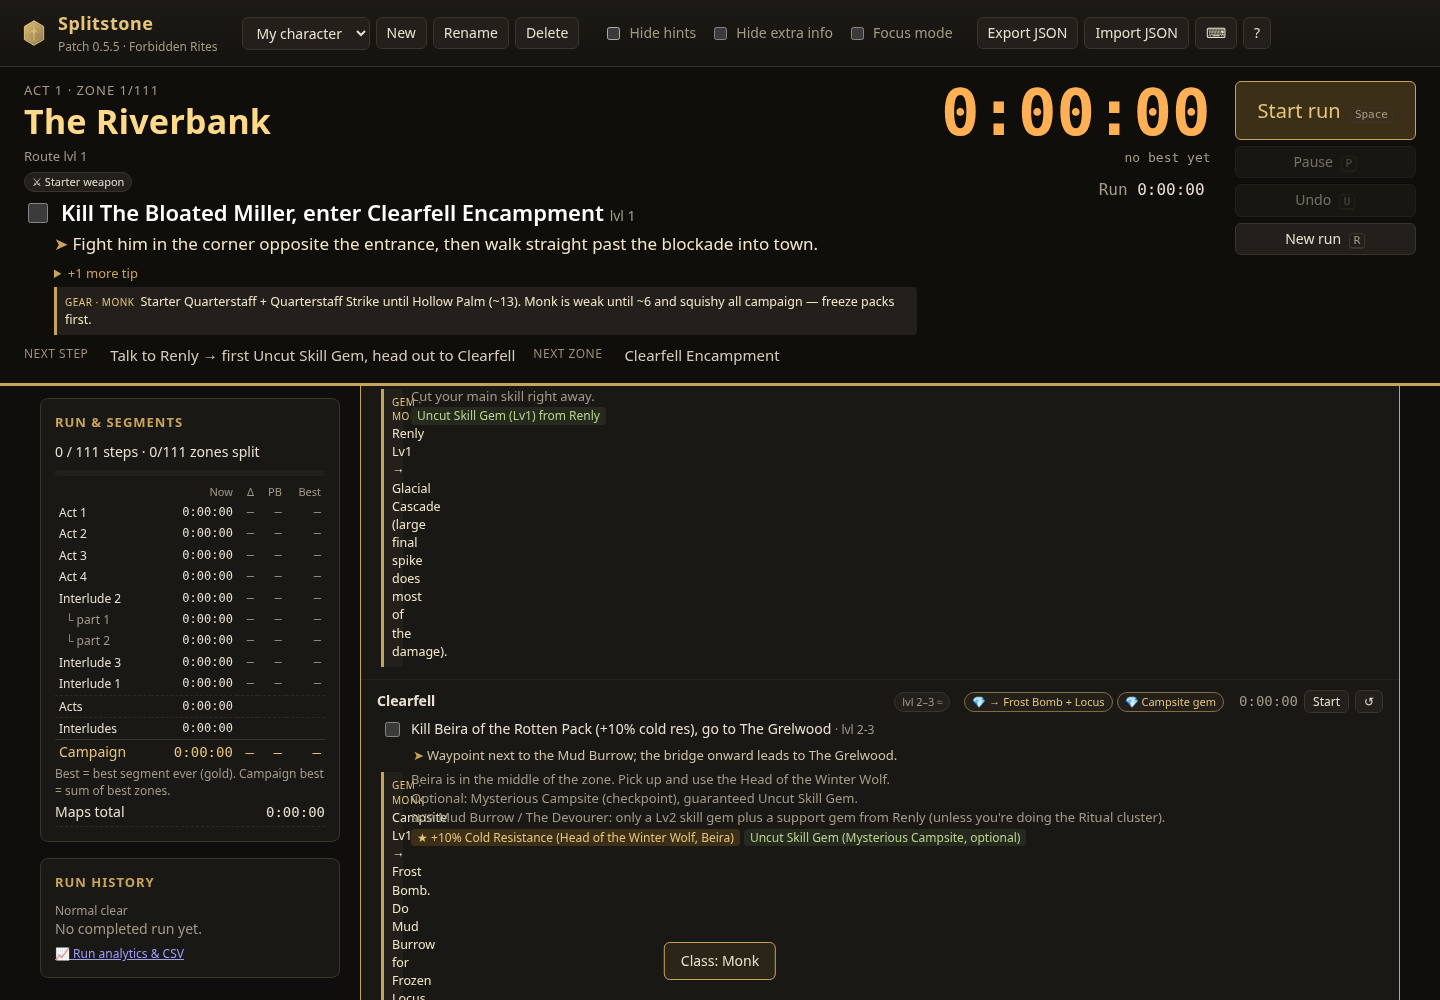
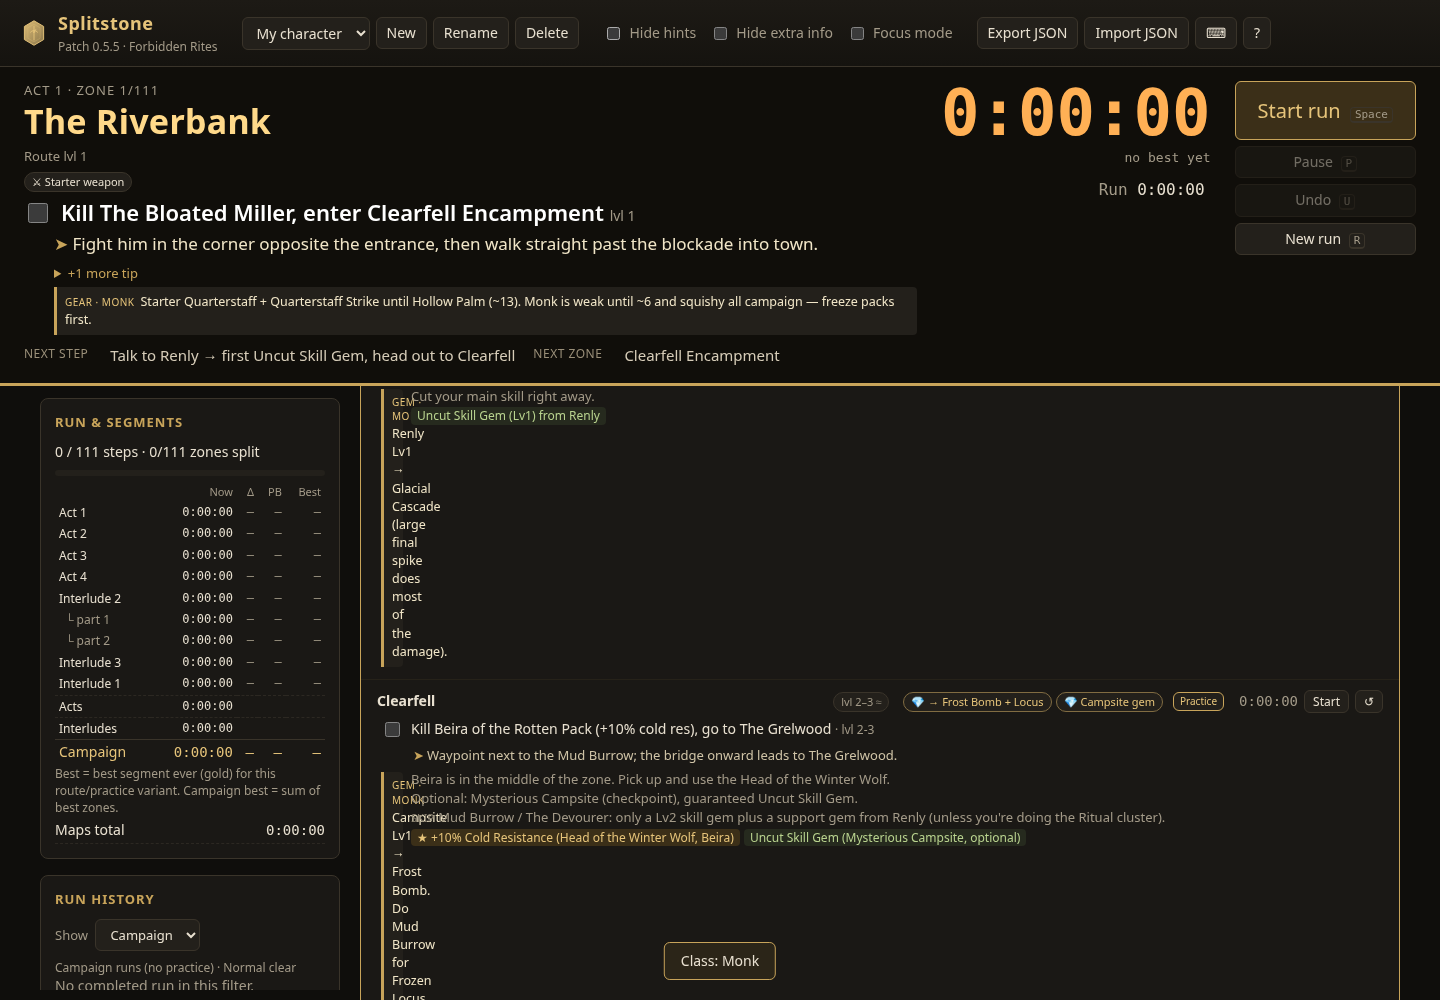
Expand Act 4 and Interlude gear / gem checkpoints
Shared cues for Tavakai weapon pieces, Halls tattoos, Hinekora Spirit,
Kaimana Lesson, Interlude Spirit/Boon/passive rewards, and late-campaign
vendor passes. Tests cover the new act4/interlude entries.

Changed region(s): [[0.0312, 0.868, 0.2188, 0.992], [0.0312, 0.775, 0.2188, 0.837], [0.625, 0.682, 0.8438, 0.713]]

diff --git a/data/gear_checkpoints.js b/data/gear_checkpoints.js
@@ -96,11 +96,111 @@ window.GEAR_CHECKPOINTS = {
     "act3-16": [
       S("craft", "Reforging Bench", "Mektul → Hammer of Kamasa to Oswald unlocks the Reforging Bench.", ["campaign"]),
     ],
+    "act4-01": [
+      S("vendor", "Kingsmarch gear", "Before sailing: sell junk, check Kingsmarch vendors for ~lvl 40–42 weapon/armour upgrades.", ["campaign", "malura"], { uncertain: true }),
+    ],
+    "act4-02": [
+      S("support", "Beast Pen support", "Optional Beast Pen: Uncut Support Gem Lv4. Blind Beast: Greater Blank Rune.", ["campaign"]),
+    ],
     "act4-03": [
-      S("weapon", "Weapon piece 1/3", "Island bosses drop Tavakai weapon pieces (or free Matiki) — track 3 pieces for Arastas.", ["campaign"]),
+      S("weapon", "Weapon piece 1/3", "Krutog (or free Matiki): Tavakai weapon piece 1/3 — track all three before Arastas.", ["campaign"]),
+      S("tip", "Nest ring", "Optional Nest: Ruby/Topaz Ring if your fire/lightning res is soft.", ["campaign"], { uncertain: true }),
+    ],
+    "act4-05": [
+      S("gem", "Tujen skill gem", "After Omniphobia: Tujen Uncut Skill Gem + Mist-shrouded Tome (+2 passives).", ["campaign"]),
+      S("vendor", "Mid-Act4 vendor", "Around here: refresh weapon if DPS stalled — island content is dense.", ["malura"], { uncertain: true }),
+    ],
+    "act4-06": [
+      S("craft", "Goddess flask", "Optional Goddess of Justice: +30% life or mana flask recovery (swappable).", ["campaign"]),
+    ],
+    "act4-07": [
+      S("weapon", "Weapon piece 2/3", "The Prisoner (or Matiki): weapon piece 2/3.", ["campaign"]),
+    ],
+    "act4-08": [
+      S("weapon", "Weapon piece 3/3", "Scourge of the Skies (or Matiki): final weapon piece — Arastas unlocks after all three.", ["campaign"]),
+    ],
+    "act4-09": [
+      S("tip", "Shark Fin", "Great White One → Shark Fin for Kaimana's permanent Lesson after Tavakai.", ["campaign"]),
+      S("support", "Crabshell support", "Optional Crabshell Cavern: Uncut Support Gem.", ["campaign"]),
+    ],
+    "act4-10": [
+      S("craft", "Humming Pearl", "Optional Diamora: Humming Pearl → Rog Pearlescent Amulet (all res) — strong campaign neck.", ["campaign"]),
+    ],
+    "act4-11": [
+      S("spirit", "Waterfall Spirit", "Eye of Hinekora: Spirit Gem in the waterfall chest; Silent Hall +5% max mana.", ["campaign"]),
+    ],
+    "act4-12": [
+      S("craft", "Halls tattoos", "3 permanent tattoos: each +5% fire/cold/lightning res OR +5 Str/Int/Dex — pick for your softest check.", ["campaign"]),
+    ],
+    "act4-13": [
+      S("tip", "Hinekora tattoo", "Navali: Tattoo of Hinekora (+2 passive points).", ["campaign"]),
     ],
     "act4-14": [
-      S("weapon", "Pieces → Arastas", "Need all 3 weapon pieces before Makoru sails to Arastas.", ["campaign"]),
+      S("weapon", "Pieces → Arastas", "Confirm all 3 weapon pieces before Makoru sails to Arastas.", ["campaign"]),
+      S("tip", "Ange hideout", "Optional Ange: claim hideout before the siege push.", ["campaign"]),
+    ],
+    "act4-15": [
+      S("craft", "Verisium Anvil", "Runeseeker Expedition → Farrow / Verisium Anvil in hideout (crafting bench upgrade).", ["campaign"]),
+    ],
+    "act4-16": [
+      S("tip", "Arastas bells", "Optional bells: 3 Exalted + 3 Regal — nice currency spike before Benedictus.", ["campaign"]),
+      S("vendor", "Pre-Tavakai gear", "Last big vendor pass before Ngakanu: weapon + res for Tavakai (~46–48).", ["malura"], { uncertain: true }),
+    ],
+    "act4-19": [
+      S("tip", "Tavakai fight", "Final Act 4 boss — bring flask charges and a sapphire/topaz charm if ele-res soft.", ["campaign"], { uncertain: true }),
+    ],
+    "act4-20": [
+      S("craft", "Kaimana Lesson", "Shark Fin → Kaimana: permanent Lesson (Kaom's or Rakiata's). Interludes unlock after Hooded One.", ["campaign"]),
+    ],
+
+    // —— Interlude 2 · part 1 ——
+    "interludes-01": [
+      S("vendor", "Bazaar gear", "Khari Bazaar (~50): refresh weapon/armour before the desert stretch.", ["campaign", "malura"], { uncertain: true }),
+    ],
+    "interludes-02": [
+      S("craft", "+5% max life", "Skullmaw: Molten One's Gift — permanent +5% maximum life.", ["campaign"]),
+    ],
+    "interludes-04": [
+      S("tip", "+2 passives", "Akthi & Anundr → Risu Book of Specialisation (+2 passives).", ["campaign"]),
+    ],
+
+    // —— Interlude 3 ——
+    "interludes-06": [
+      S("gem", "Monument gem", "Optional Ancient Monument: Uncut Skill Gem ~Lv14.", ["campaign"]),
+    ],
+    "interludes-07": [
+      S("spirit", "+40 Spirit", "Lythara: Gemcrust Skull (+40 Spirit) + Uncut Spirit Gem ~Lv14 — big aura/Herald upgrade.", ["campaign"]),
+    ],
+    "interludes-08": [
+      S("tip", "Icy Tusks +2", "Abominable Yeti → Hilda Book of Specialisation (+2 passives).", ["campaign"]),
+    ],
+    "interludes-10": [
+      S("tip", "Free Unique", "Elder Madox: pick one Unique — favour a weapon or res/life chest if still on rares.", ["campaign"], { uncertain: true }),
+    ],
+
+    // —— Interlude 2 · part 2 ——
+    "interludes-13": [
+      S("tip", "Barya wishes", "Optional Elzarah: rare ring/amulet/jewel wishes — fill res holes.", ["campaign"], { uncertain: true }),
+    ],
+    "interludes-15": [
+      S("craft", "Qimah Boon", "Seven Pillars boon (swappable): Tabana +5% all ele res is the safe campaign pick.", ["campaign"]),
+    ],
+
+    // —— Interlude 1 ——
+    "interludes-17": [
+      S("vendor", "Refuge / Ogham", "Interlude 1 (~57): last campaign vendor pass before maps — weapon + flasks.", ["malura"], { uncertain: true }),
+    ],
+    "interludes-20": [
+      S("craft", "Greater Runes", "Optional Soul of the Ferryman: Greater Runes (~2000g) for endgame sockets.", ["campaign"]),
+    ],
+    "interludes-21": [
+      S("tip", "Warden +2", "Oswin: Warden's Ledger (+2 passive points).", ["campaign"]),
+    ],
+    "interludes-24": [
+      S("tip", "Siege Book +2", "Hooded One: Book of Specialisation (+2) before Oriath / maps.", ["campaign"]),
+    ],
+    "interludes-25": [
+      S("tip", "Maps next", "Ziggurat Map Device — campaign complete; roll first maps with your Act 4 / Interlude gear.", ["campaign"]),
     ],
   };
 

diff --git a/tests/gear_shot.py b/tests/gear_shot.py
@@ -48,6 +48,21 @@ with sync_playwright() as p:
     check("Renly step has gem cue", meta["renlyHasGem"], meta)
     check("Monk Renly is class-specific", meta["monkHasCascade"], meta)
     check("Merc Act2 crossbow cue", meta["mercCrossbowLater"], meta)
+
+    a4 = page.evaluate( """() => {
+      const g = GEAR_CHECKPOINTS.shared;
+      const pieces = ['act4-03','act4-07','act4-08'].filter(id => (g[id]||[]).some(x => /piece/i.test(x.short+x.text)));
+      const spirit = (g['act4-11']||[]).some(x => x.kind==='spirit');
+      const intlSpirit = (g['interludes-07']||[]).some(x => x.kind==='spirit');
+      const boon = (g['interludes-15']||[]).some(x => /Boon|Qimah/i.test(x.short));
+      return { pieces: pieces.length, spirit, intlSpirit, boon, nAct4: Object.keys(g).filter(k=>k.startsWith('act4-')).length };
+    }""")
+    check("Act4 weapon piece cues (3 bosses)", a4["pieces"] >= 3, a4)
+    check("Act4 Hinekora spirit cue", a4["spirit"], a4)
+    check("Interlude Lythara spirit cue", a4["intlSpirit"], a4)
+    check("Interlude Qimah Boon cue", a4["boon"], a4)
+    check("Act4 shared cues expanded", a4["nAct4"] >= 12, a4)
+
     check("Lvl 16 craft checkpoint", meta["lvl16"], meta)
     check("zone aggregates cues", meta["zoneCues"] >= 1, meta)
 

diff --git a/README.md b/README.md
@@ -80,7 +80,7 @@ Optional: the app can check GitHub Releases for updates when you’re online.
 - **Characters** — Create, switch, rename, delete; one saved campaign per character.
 - **Persistence** — `localStorage` (`splitstone:v1`; older `poe2-campaign-tracker:v1` saves migrate automatically). JSON export / import.
 - **Practice mode** — Run a single act, interlude, or zone. Splits, auto-split, and PB/bests are scoped to that practice variant and never overwrite the full-campaign PB. Exit anytime from the route bar or now bar.
-- **Gear / gem checkpoints** — Glanceable cues for vendor checks, weapon crafts (e.g. lvl 16), Uncut skill/support/Spirit gems, and class-specific swaps (six basic classes). Uncertain notes are dashed. Hidden with **Hide hints** / **Hide extra info**.
+- **Gear / gem checkpoints** — Glanceable cues for vendor checks, weapon crafts (e.g. lvl 16), Uncut skill/support/Spirit gems, and class-specific swaps (six basic classes). Act 4 (weapon pieces, tattoos, Kaimana) and the Interludes (Spirit, Boons, passives) are covered. Uncertain notes are dashed. Hidden with **Hide hints** / **Hide extra info**.
 - **Level / XP warnings** — Per-zone recommended / area level from the route; warns when your character level (manual field or PoB) is under-leveled or near the XP-penalty window (`±(3 + ⌊level/16⌋)`, Malura 0.5.x). Glanceable in the zone list + now bar; hidden with **Hide extra info**.
 - **Auto-split from Client.txt** — Optional local helper (SSE) or Chrome/Edge File System Access. Hideouts, re-entries, and backtracking are ignored.
 - **Rebindable hotkeys** — Settings panel with conflict detection; bindings export with the save.
